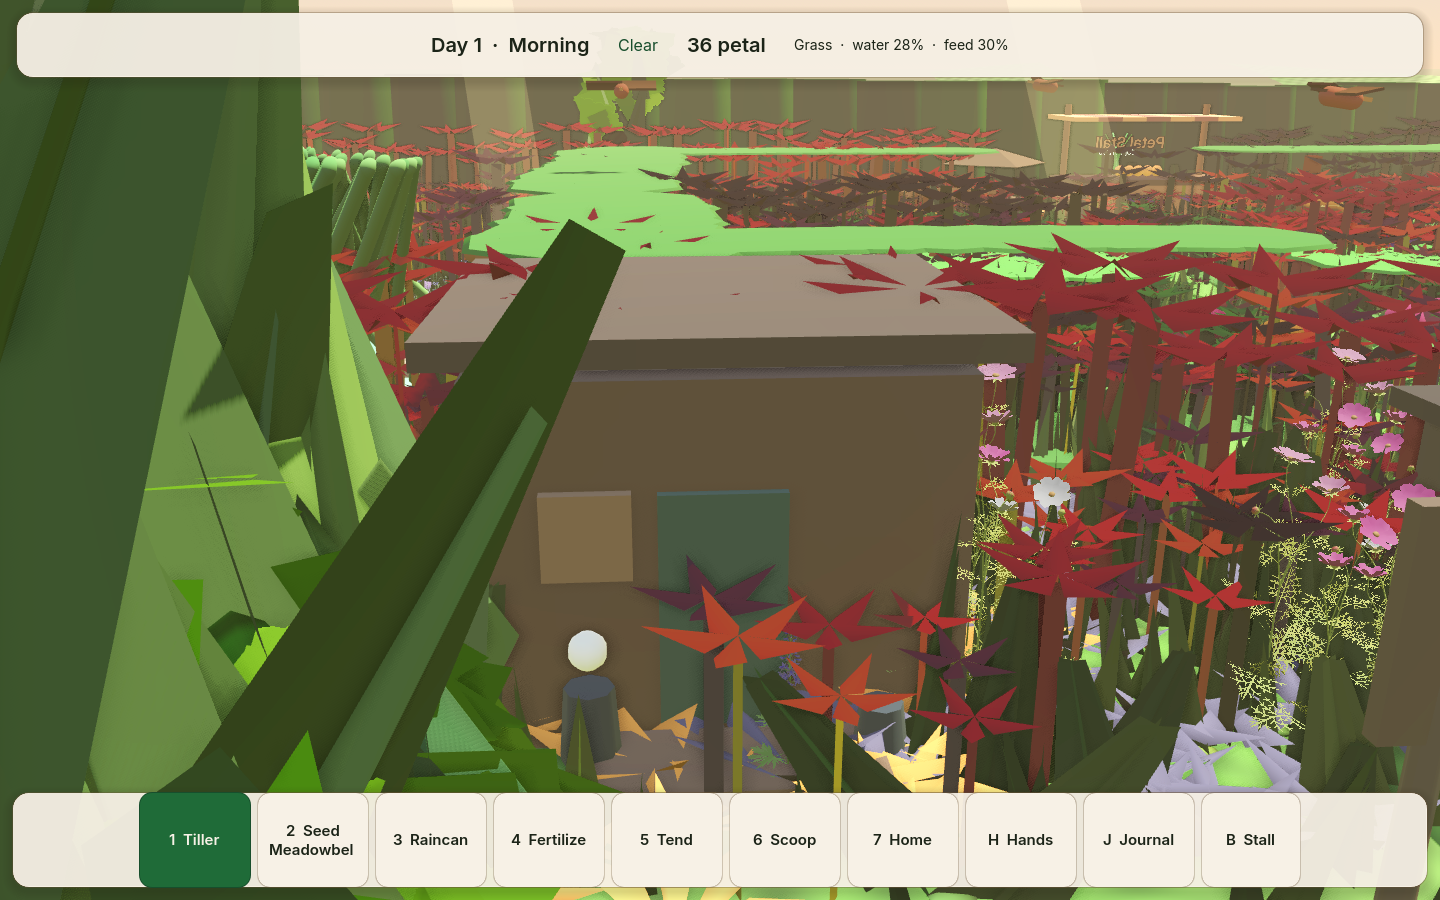
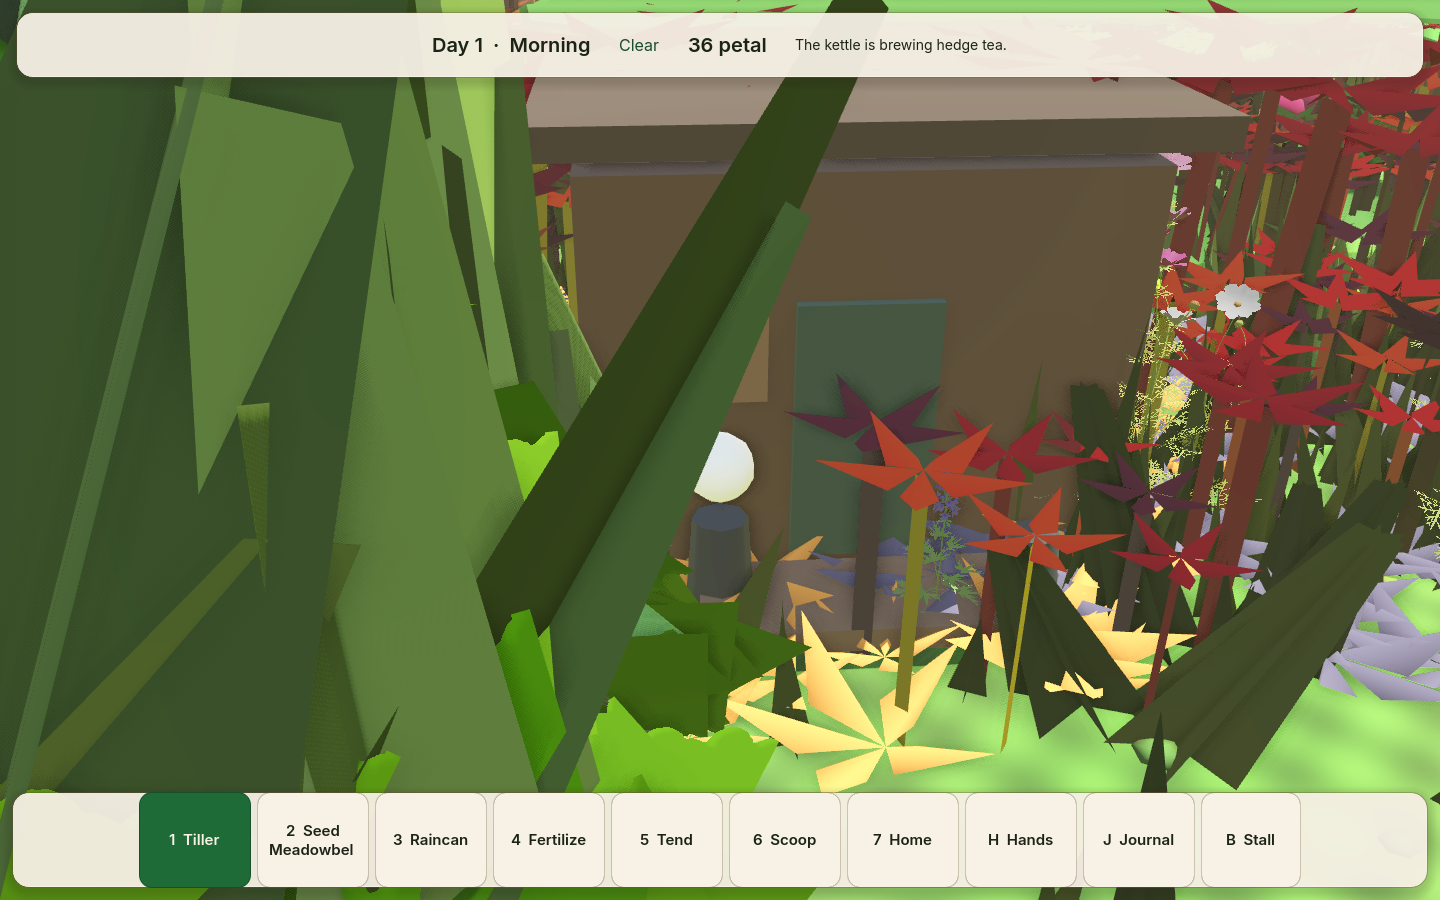
Keep kettle, pan, and stall frames beside the jam chain.
Recapture brew hover, the shed while jam cooks, and the stall panel with
both crate goods. Steam puffs are a little larger so the stations read.

diff --git a/docs/lanes/PETAL-05.md b/docs/lanes/PETAL-05.md
@@ -9,7 +9,7 @@ End-to-end hedge-tea chain on the existing stall tin, pouch, and crop harvest: g
 ## Branch / commit
 
 - Branch: `petal/05-economy`
-- Last commit: `a4d909b` Capture the kettle steam and the stall crate.
+- Last commit: pass-2 mill (jam, sip, lane shortage) on `petal/08-integration` `3402530`
 - Baseline: `cursor/dpo-cpu-decide-9cb0` (`petal-campaign-baseline-20260927`)
 - PR: https://github.com/st5463978-boop/PetalWild/pull/7
 
@@ -98,4 +98,17 @@ Merged `petal/08-integration` (`3402530`) into `petal/05-economy` first. Three p
 
 ### Tests (this pass)
 
-Markers recorded after the run. Qwen3-VL unused. Campaign state stays PETAL-08.
+Godot 4.8-dev6, llvmpipe, dummy ALSA.
+
+- `tools/petal_qa.sh` — PETAL_RULES_OK SYSTEMS_OK PETAL_CONTRACTS_OK FOUNDATION_OK JELLY_FEEL_OK RESIDENT_LIFE_OK TOWN_OK REGION_OK PETAL_QA_SCRIPTS_OK
+- `DISPLAY=:1 PETAL_SMOKE=1 tools/run.sh res://scenes/garden.tscn` — PETAL_SMOKE_OK (tea chain, sip from crate, pan steam, jam on crate, save/load, vale 5)
+- `DISPLAY=:1 PETAL_KETTLE_SHOT=1 tools/run.sh res://scenes/garden.tscn` — PETAL_KETTLE_SHOT_OK
+- Frames: `kettle_brew.png` (hover: The kettle is brewing hedge tea), `jam_pan.png` (shed while the pan runs), `kettle_crate.png` (stall: Sell hedge tea 22 (1), Pan, Sell cane jam 16 (1))
+- Expected leaks: 3 CanvasItem RIDs, 6 ObjectDB
+- Qwen3-VL unused. Campaign state stays PETAL-08.
+
+### Requests
+
+- PETAL-04: `sip` is the mill taking a crate cup; eating still walks without auto-buy from the pouch.
+- PETAL-06: lane tea line only after `parish_road_rumour`.
+- PETAL-08: jam `sell_price` 16 lives on the recipe. Do not duplicate the mill.
